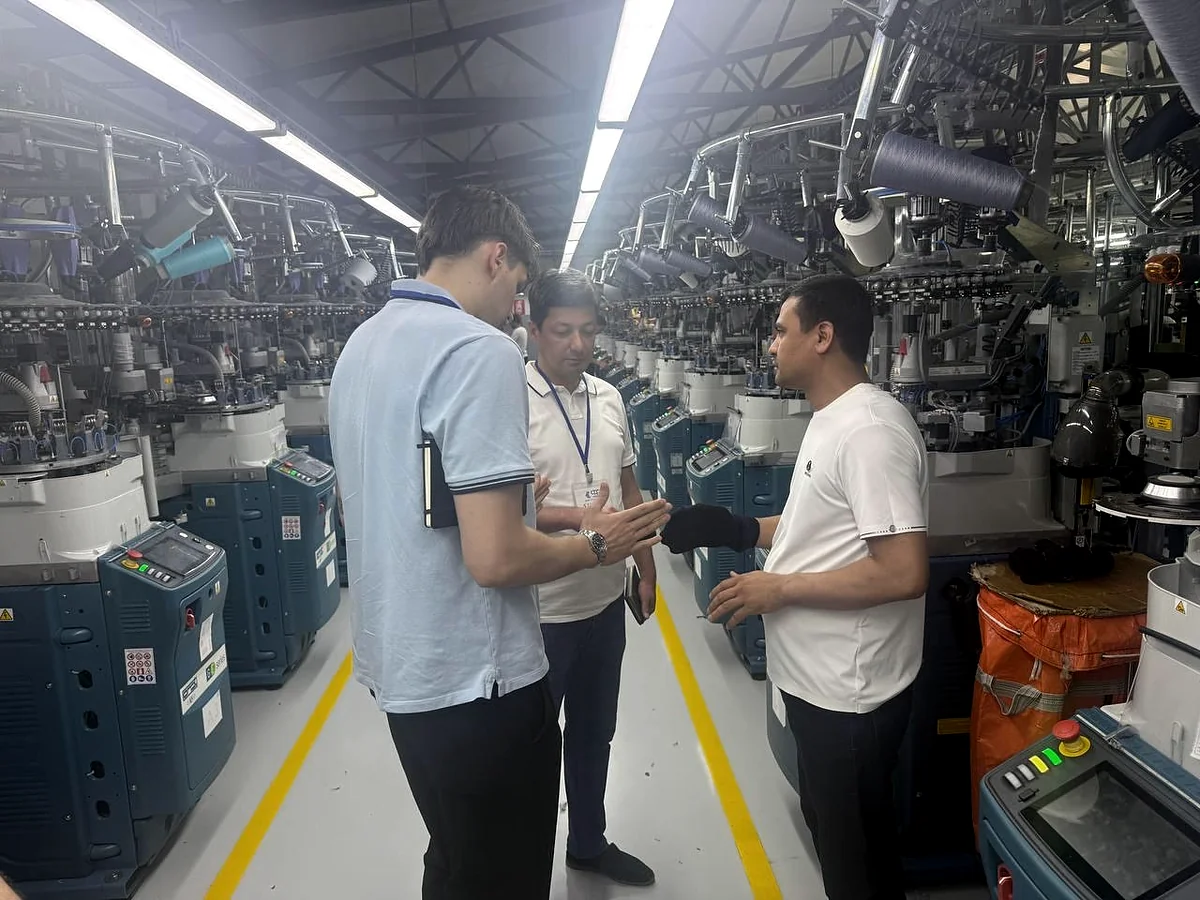
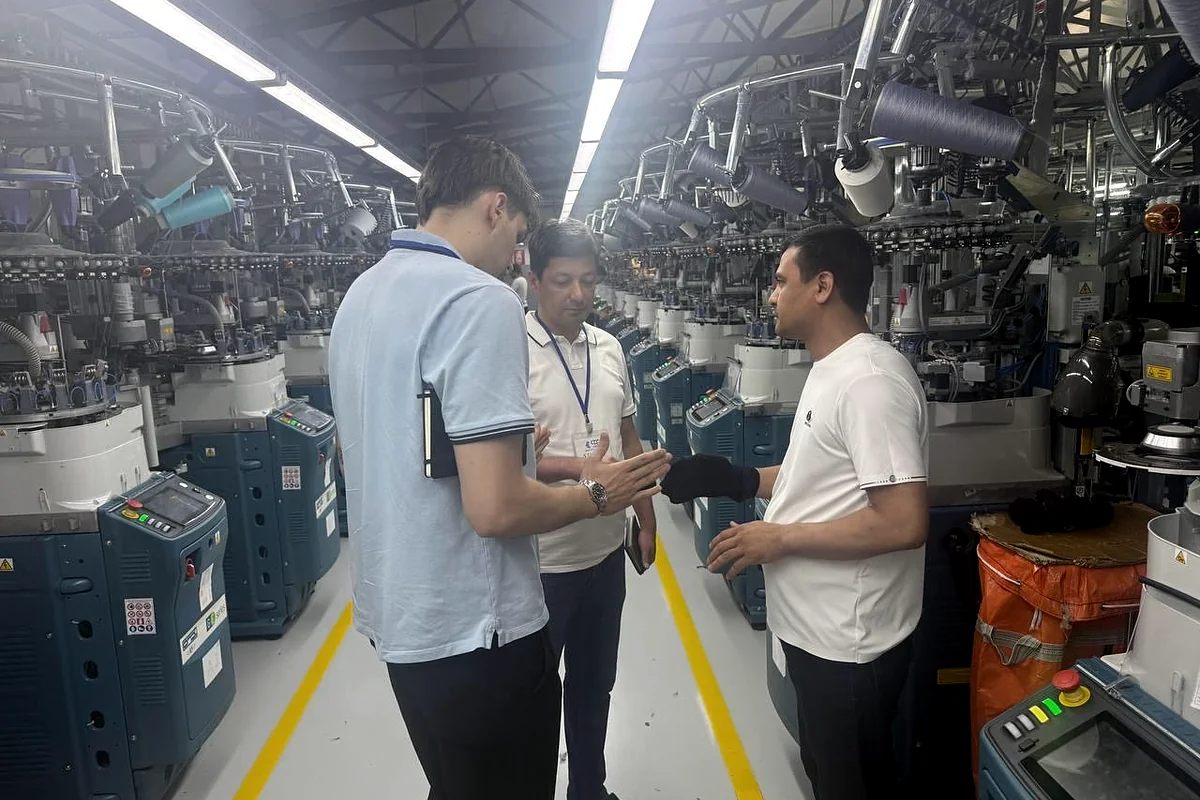
Fotka v sekci O nás je 3:2 a řídí se poměrem stran, ne atributem
Skutečná příčina „moc vysoké" fotky nebyl poměr stran, ale atributy
width/height na <img>. Prohlížeč je bere jako CSS nápovědu, a protože
pravidlo nastavovalo jen šířku, výška zůstala viset na 1000 px z atributu
a aspect-ratio se neuplatnil vůbec. Předchozí přepnutí na 4:3 proto
nemělo žádný efekt.

- do .about__fig img doplněno height:auto
- fotka převedena na 3:2 (1200×800) a širší ořez, takže se vejdou
  všichni tři lidé i kontext haly místo zad v popředí
- ostatní obrázky prověřeny, stejný rozpor nikde jinde není

diff --git a/assets/css/style.css b/assets/css/style.css
@@ -752,7 +752,7 @@ body.is-locked .hdr.is-stuck{background:transparent;border-bottom-color:transpar
 .about p:first-of-type{color:var(--tx-3)}
 .about p:last-of-type{color:var(--tx-4);margin-bottom:0}
 .about__fig{position:relative;border-radius:var(--r-lg);overflow:hidden;border:1px solid var(--line)}
-.about__fig img{width:100%;display:block;aspect-ratio:4/3;object-fit:cover;filter:grayscale(.5) contrast(1.03);transition:transform .9s var(--e-spring),filter var(--d-slow) var(--e)}
+.about__fig img{width:100%;height:auto;display:block;aspect-ratio:3/2;object-fit:cover;filter:grayscale(.5) contrast(1.03);transition:transform .9s var(--e-spring),filter var(--d-slow) var(--e)}
 .about__fig:hover img{transform:scale(1.04);filter:grayscale(.1)}
 .about__fig::after{
   content:"";position:absolute;inset:0;pointer-events:none;

diff --git a/index.html b/index.html
@@ -449,7 +449,7 @@
     </div>
 
     <figure class="about__fig" data-rv="zoom" style="--rv-d:140ms; margin:0">
-      <img src="assets/img/about.webp" width="1200" height="900" alt="Přejímka vzorků přímo v pletárně" loading="lazy" decoding="async">
+      <img src="assets/img/about.webp" width="1200" height="800" alt="Přejímka vzorků přímo v pletárně" loading="lazy" decoding="async">
       <figcaption class="about__cap">
         <b data-cs="Výběr výroby na místě" data-en="Vetting production on site">Výběr výroby na místě</b>
         <i>TAŠKENT · 2026</i>

diff --git a/assets/js/data.js b/assets/js/data.js
@@ -3,7 +3,7 @@
    Vše, co se opakuje nebo se přepíná jazykem, je tady na jednom místě.
 
    OBRÁZKY: reálné fotky z provozů, zpracované do WebP (assets/img/).
-   Karty 1200×900 (4:3), sekce O nás 800×1000 (4:5), hero 2400×1350 (16:9).
+   Karty 1200×900 (4:3), sekce O nás 1200×800 (3:2), hero 2400×1350 (16:9).
    Výměna fotky = nahradit soubor stejného jména nebo změnit hodnotu "img".
 
    MAPA: jeden oblouk Uzbekistán → Evropa, bez zastávek a bez přepínání.

diff --git a/README.md b/README.md
@@ -105,7 +105,7 @@ Všechny fotky jsou WebP, tonálně sjednocené (odbarvené, jemně přetažené
 | soubor | rozměr | kde se používá |
 |---|---|---|
 | `hero.webp` | 2400×1350 | úvodní obrazovka |
-| `about.webp` | 800×1000 | sekce 05 O nás |
+| `about.webp` | 1200×800 | sekce 05 O nás |
 | `product-frotte.webp` | 1200×900 | karta Frotté |
 | `product-lozni.webp` | 1200×900 | karta Ložní prádlo |
 | `product-uplety.webp` | 1200×900 | karta Pletené úplety |
@@ -117,6 +117,11 @@ Všechny fotky jsou WebP, tonálně sjednocené (odbarvené, jemně přetažené
 
 Výměna fotky = nahradit soubor stejným jménem (stejný poměr stran), nebo změnit
 cestu u `img` v `assets/js/data.js`, případně v `index.html` u hero a O nás.
+
+Pozor na atributy `width` a `height` u `<img>`: prohlížeč je bere jako CSS
+nápovědu, takže když pravidlo nastaví jen šířku, výška zůstane viset na hodnotě
+z atributu a `aspect-ratio` se vůbec neuplatní. Proto mají obrázky se zadaným
+poměrem stran v CSS vždy i `height:auto`.
 
 Karty mají v CSS ještě jemný odbarvovací filtr (`grayscale(.85)`), který se při najetí
 myší rozpouští — sjednocuje fotky z různých provozů. Vypíná se v `style.css` u `.pcard__media img`.
